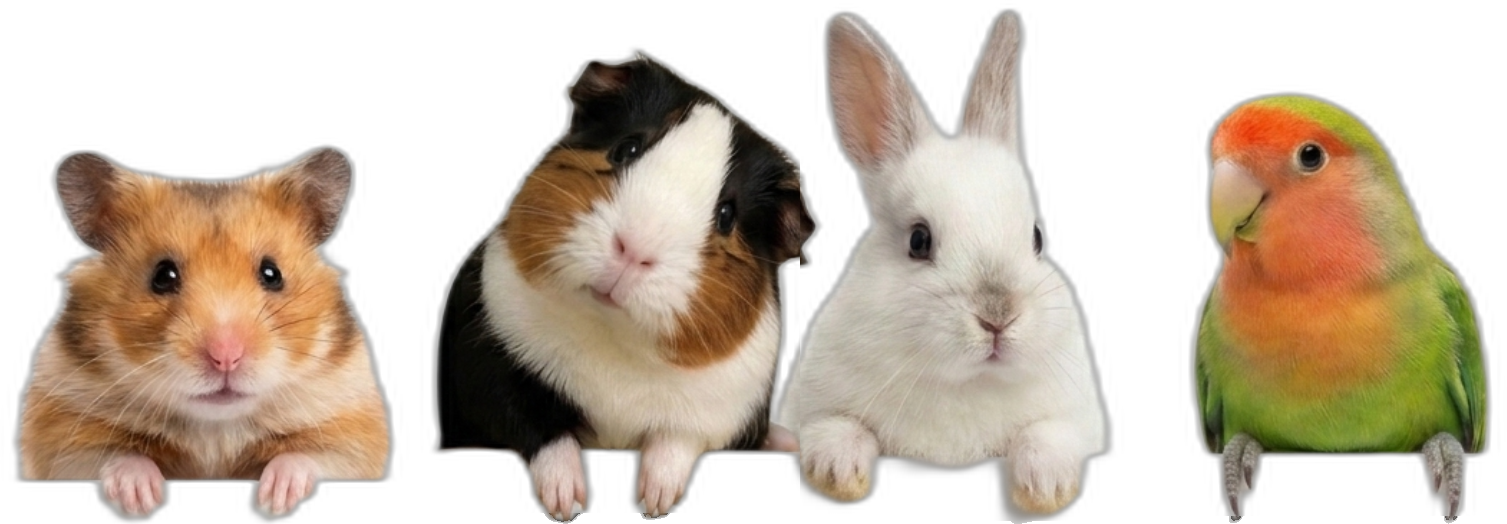
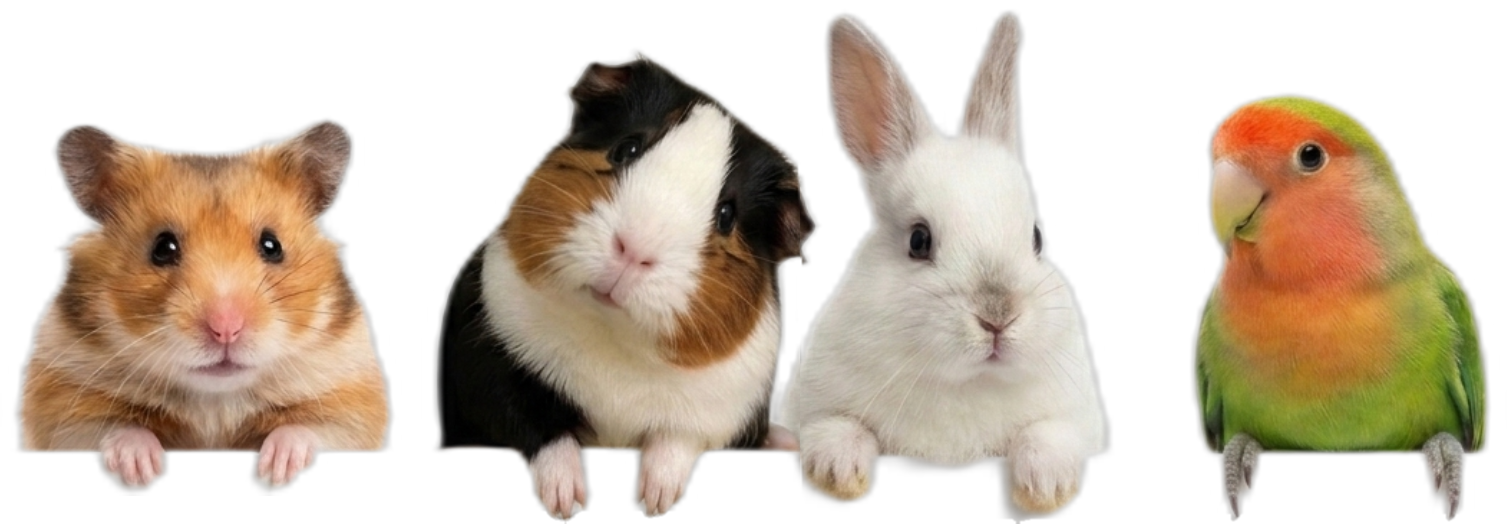
feat: betta transparente nuevo en index y hero de tienda con animales apoyados
- index.html: nuevo betta azul en WebM con alfa (recorte chroma+despill desde green screen), mas pequeno y con padding inferior para que no se corte
- tienda.html: overflow-x-clip + z-10 para que las patas de los animales cuelguen sobre la siguiente seccion (efecto apoyado en el borde)
- tienda-hero-animales.png: defringe del halo claro y alineacion del hamster (subido 28px) para que apoye a la misma altura que los demas

diff --git a/tienda.html b/tienda.html
@@ -56,7 +56,7 @@ tailwind.config = {
 <main>
 
 <!-- Hero -->
-<section class="relative bg-primary/10 px-margin-desktop pt-8 pb-0 z-0 overflow-hidden">
+<section class="relative bg-primary/10 px-margin-desktop pt-8 pb-0 z-10 overflow-x-clip">
   <div class="relative max-w-container-max mx-auto flex flex-col md:flex-row md:items-center md:justify-between gap-8">
     <div class="max-w-lg pb-16 md:pb-20">
       <span class="font-label-caps text-label-caps text-on-surface-variant">Productos naturales</span>
@@ -67,7 +67,7 @@ tailwind.config = {
         <a href="contacto.html" class="bg-secondary text-white font-bold px-6 py-3 rounded-full text-sm hover:bg-secondary/90 transition-colors">Contáctanos</a>
       </div>
     </div>
-    <img src="assets/img/tienda-hero-animales.png" alt="Hámster, cobaya, conejo y agapornis" class="absolute bottom-0 right-0 translate-y-[13%] w-[38vw] min-w-[380px] max-w-[650px] pointer-events-none select-none z-20 drop-shadow-[0_7px_4px_rgba(0,0,0,0.35)]">
+    <img src="assets/img/tienda-hero-animales.png" alt="Hámster, cobaya, conejo y agapornis" class="absolute bottom-0 right-0 translate-y-[15%] w-[38vw] min-w-[380px] max-w-[650px] pointer-events-none select-none z-20 drop-shadow-[0_10px_7px_rgba(0,0,0,0.22)]">
   </div>
 </section>
 

diff --git a/index.html b/index.html
@@ -206,7 +206,7 @@
         donde el <span style="color:#006b34">bienestar</span> de cada especie es nuestra <span style="color:#006b34">prioridad</span>, con productos <span style="color:#006b34">seleccionados</span> y asesoría <span style="color:#006b34">especializada</span>.
       </p>
     </div>
-    <video autoplay loop muted playsinline style="position:absolute;bottom:-6%;right:2%;height:80%;width:auto;z-index:1">
+    <video autoplay loop muted playsinline style="position:absolute;bottom:6%;right:3%;height:60%;width:auto;z-index:1">
       <source src="assets/img/betta-anim.webm" type="video/webm">
       <source src="assets/img/betta-anim.mp4" type="video/mp4">
     </video>